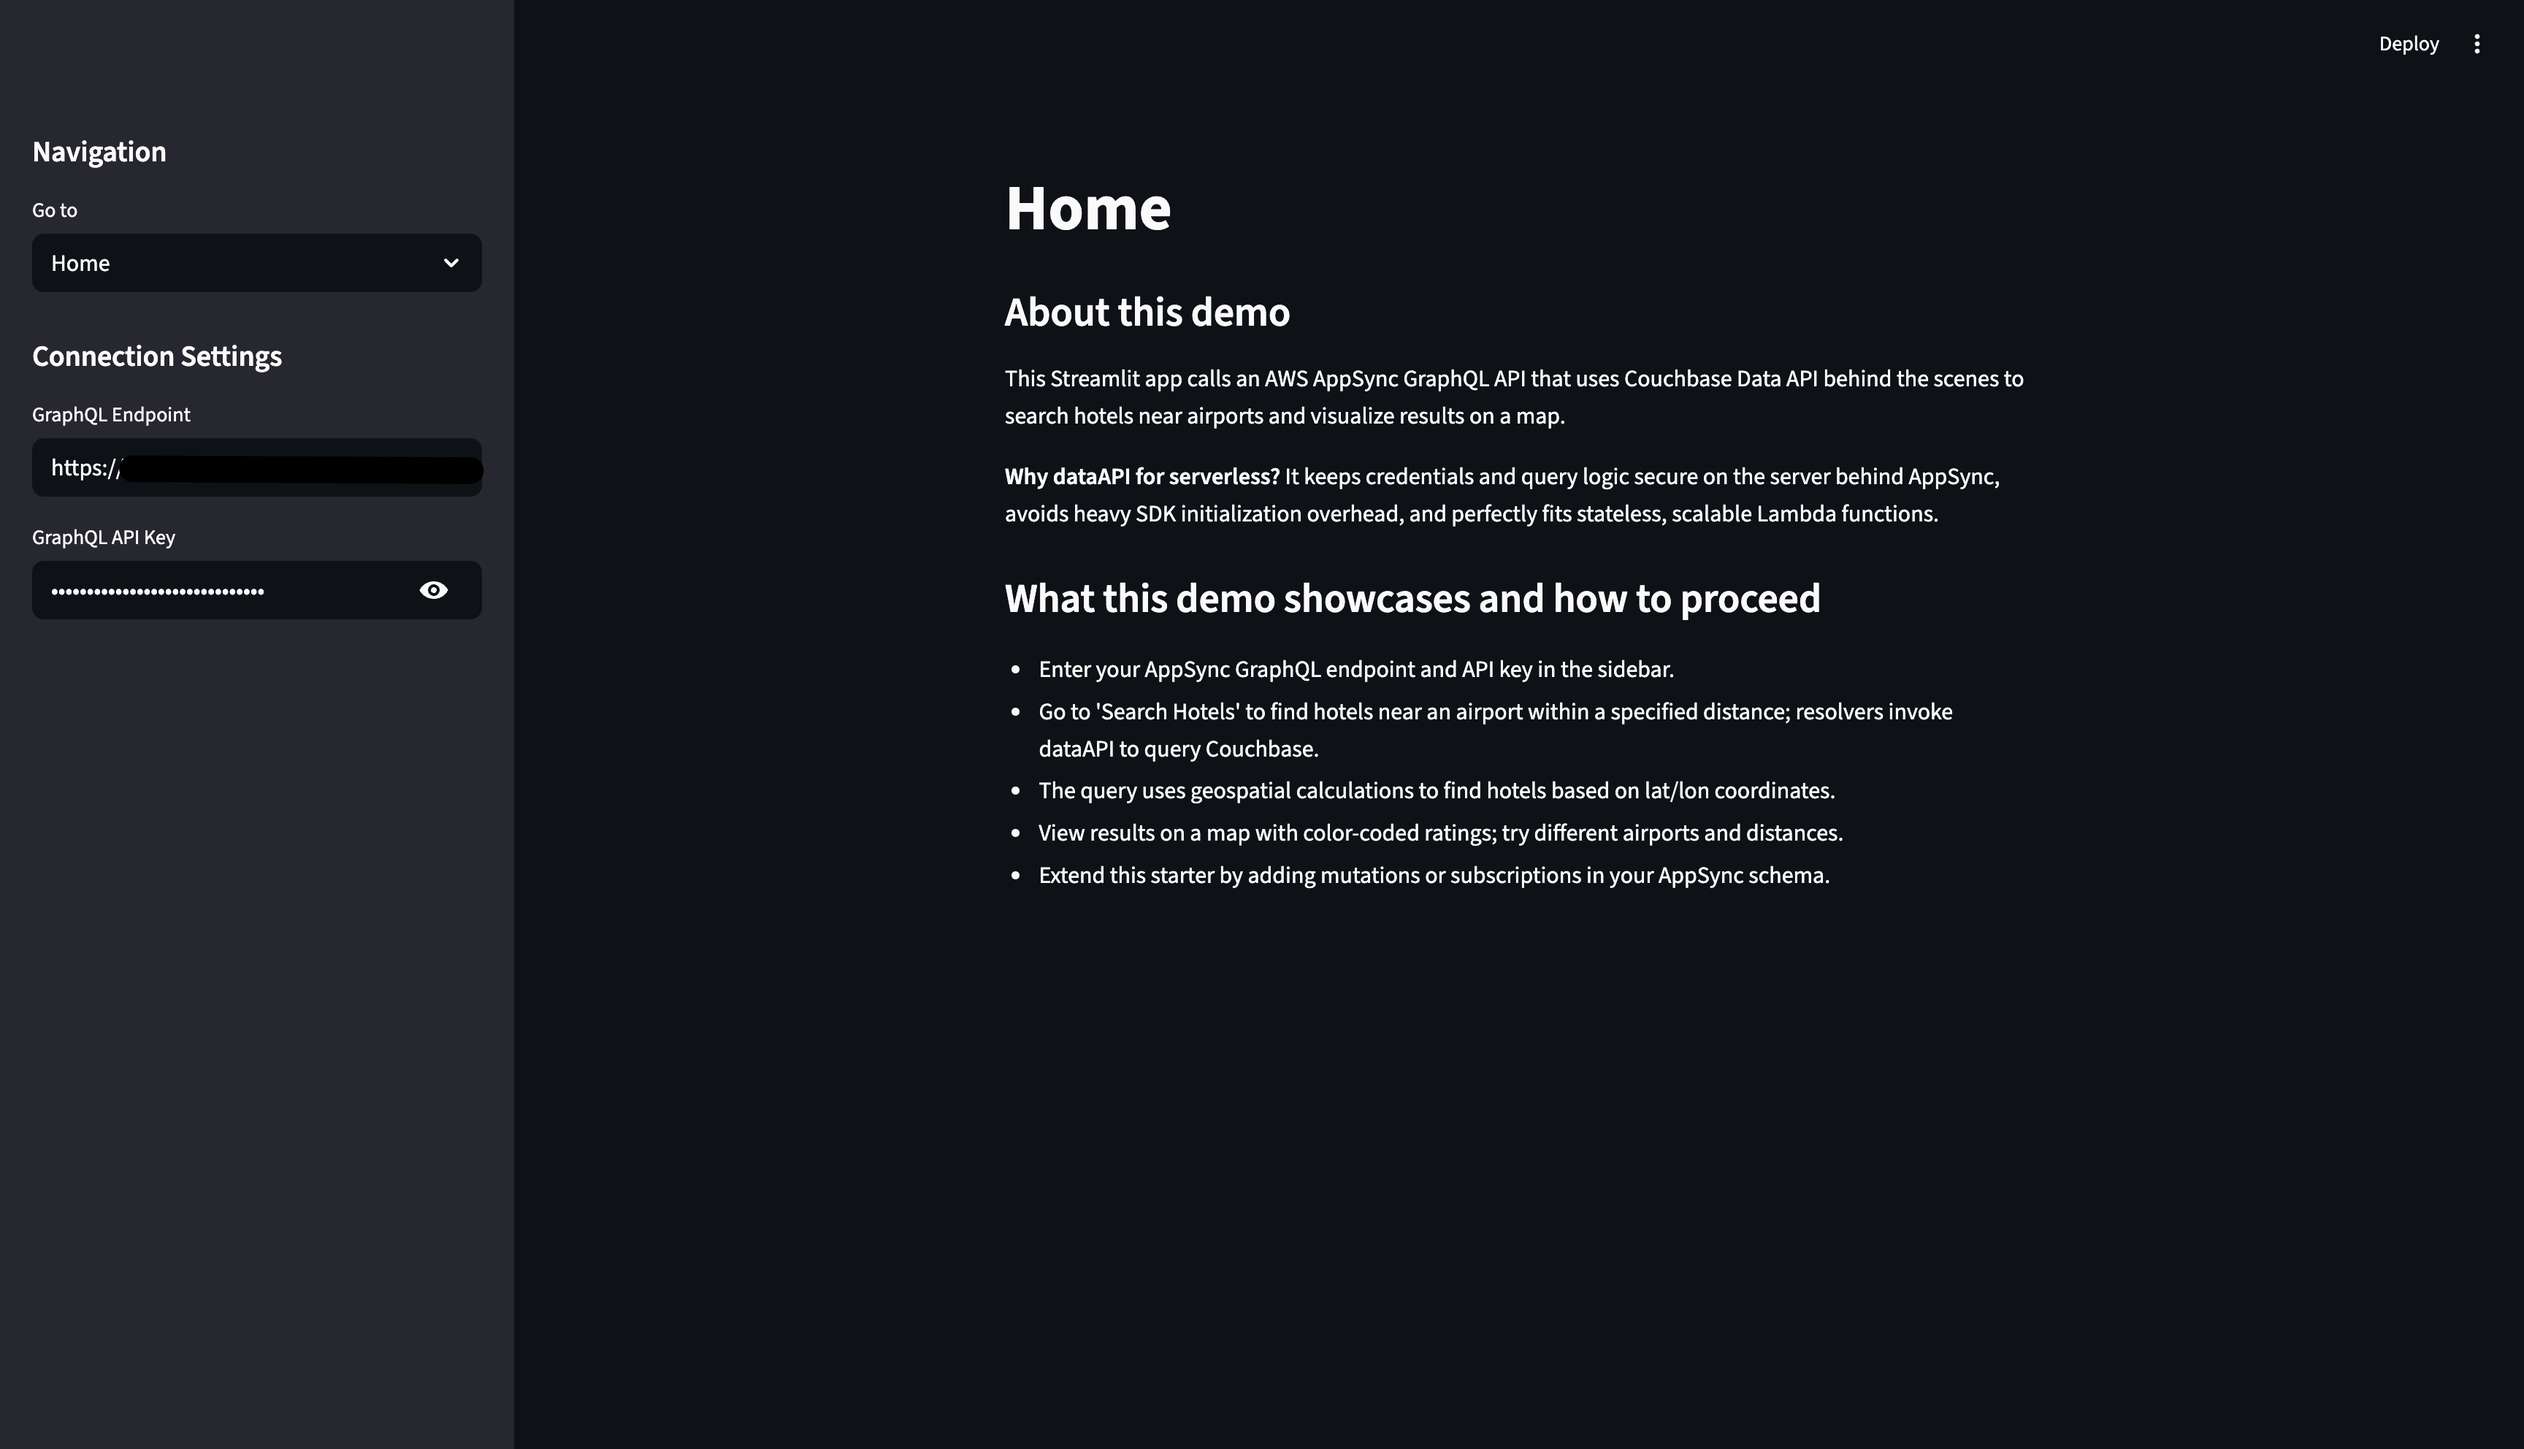
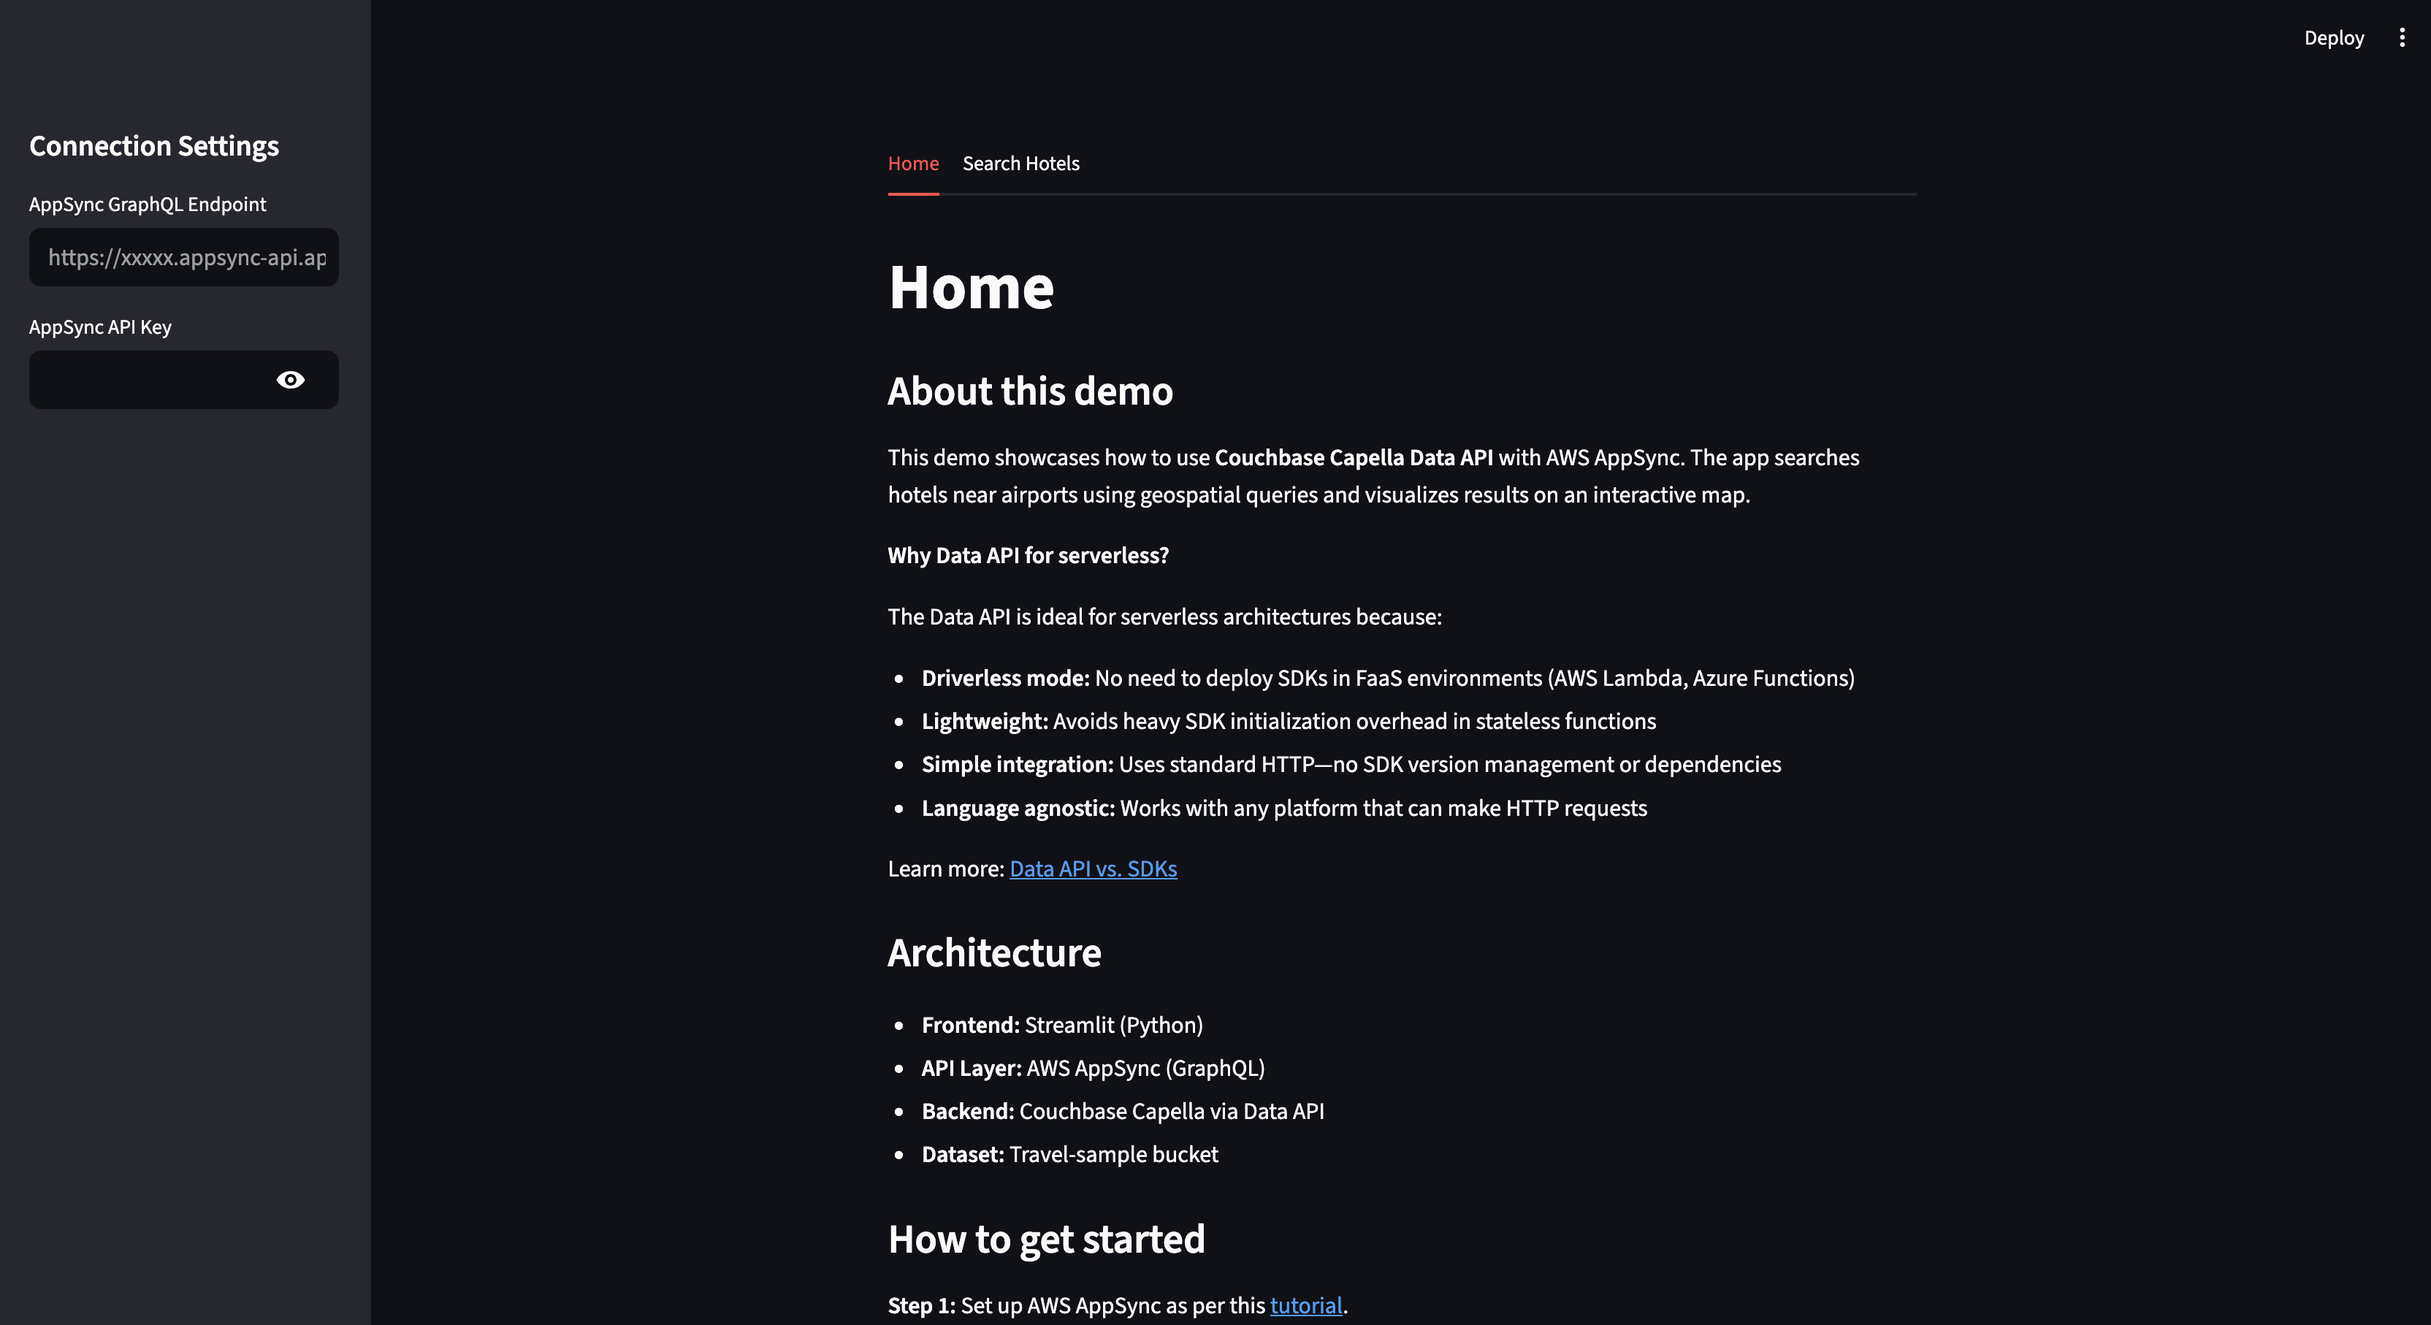
updated: tutorial prerequisites and steps for geospatial hotel search implementation
- Updated prerequisites to include specific Couchbase and AWS account requirements
- Revised tutorial steps for creating AppSync API and configuring Data API
- Updated screenshots and interactive map descriptions for better user guidance

diff --git a/tutorial/markdown/nodejs/dataApi-appsync-tutorial/tutorial.md b/tutorial/markdown/nodejs/dataApi-appsync-tutorial/tutorial.md
@@ -32,10 +32,13 @@ If you want to see the final code you can refer to it here: [Final Demo Code](ht
 This guide walks you through building a geospatial hotel search demo that finds hotels within a specified distance from airports. The application uses AWS AppSync (GraphQL) with environment variables for credential management, Couchbase Data API for executing SQL++ queries, and a Streamlit frontend for interactive map visualization — end to end, with inlined code.
 
 ### Prerequisites
-- Couchbase Capella account with the Travel Sample dataset loaded and credentials that can access it (and network access allowed).
-  - Learn/setup here: [Couchbase Data API Prerequisites](https://docs.couchbase.com/cloud/data-api-guide/data-api-start.html#prerequisites)
-- Couchbase Data API docs (enable Data API, copy endpoint)
-  - [Data API Docs](https://docs.couchbase.com/cloud/data-api-guide/data-api-start.html)
+- **[Couchbase Capella account](https://cloud.couchbase.com/sign-up)** with a [running cluster](https://docs.couchbase.com/cloud/get-started/create-account.html)
+- **[Travel-sample bucket](https://docs.couchbase.com/cloud/clusters/data-service/import-data-documents.html)** imported into your cluster
+- **[Data API enabled](https://docs.couchbase.com/cloud/data-api-guide/data-api-start.html)** in Capella (via the cluster's Connect page)
+  - **Important:** Set Allowed IP address to **"Allow access from anywhere"** for demo purposes
+  - This configuration is required for this demo to function with AWS AppSync
+  - Not recommended for production—see [documentation](https://docs.couchbase.com/cloud/data-api-guide/data-api-start.html) for secure network configurations
+- **[AWS account](https://aws.amazon.com/)** with permissions to create AppSync APIs
 
 ---
 
@@ -43,8 +46,12 @@ This guide walks you through building a geospatial hotel search demo that finds 
 
 **What is Data API?**
 Couchbase Data API provides a RESTful HTTP interface to your cluster. Instead of embedding the Couchbase SDK in your app, you make standard HTTP requests to query, insert, or update documents. This is perfect for serverless architectures (like AppSync) because:
-- No heavy SDK initialization on cold starts
-- Works from any language with HTTP support
+- **Enables driverless mode:** No need to deploy SDKs in FaaS environments (AWS Lambda, Azure Functions)
+- **Is lightweight:** Avoids heavy SDK initialization overhead in stateless functions
+- **Simplifies integration:** Uses standard HTTP—no SDK version management or dependencies
+- **Is language agnostic:** Works with any platform that can make HTTP requests
+
+Learn more: [Data API vs. SDKs](https://docs.couchbase.com/cloud/data-api-guide/data-api-sdks.html)
 
 **Steps:**
 1. In Capella, enable Data API for your project/cluster (single click in the cluster settings).
@@ -68,7 +75,9 @@ Couchbase Data API provides a RESTful HTTP interface to your cluster. Instead of
 AppSync provides a managed GraphQL layer with built-in auth, and logging. It lets your frontend speak GraphQL while your backend (Data API) speaks SQL++. The resolver bridges the two.
 
 **Steps:**
-1. Create an AppSync GraphQL API with Public API (we'll use API key auth for demo simplicity).
+1. Create an AppSync GraphQL API:
+   - Choose **"Build from scratch"** option when prompted
+   - Select **Public API** with **API key** authentication for demo simplicity
 
 #### Define the schema (paste into the schema editor)
 
@@ -162,7 +171,7 @@ AppSync can call external HTTP APIs. You configure a base URL (your Data API end
 **Steps:**
 - In AppSync, create a new HTTP data source.
 - Set the endpoint to your Couchbase Data API base URL (from step 1).
-- **Do not** configure auth here; we'll add Basic auth dynamically in the resolver using credentials from environment variables.
+- **Important:** Do NOT enable "Authorization configuration", since credentials will be passed dynamically via the resolver using AppSync environment variables.
 
 #### Screenshot
 ![AppSync Data Source](appsync-data-source.jpg)
@@ -186,7 +195,7 @@ These environment variables will be accessible in your resolvers via `ctx.env.cb
 #### Screenshot
 ![AppSync Environment Variables](appsync-env-vars.jpg)
 
-#### Add a JavaScript Unit Resolver for `Query.listHotelsInCity`
+#### Add a JavaScript Unit Resolver for `Query.listHotelsNearAirport`
 
 **What does this resolver do?**
 AppSync resolvers have two functions:
@@ -195,13 +204,13 @@ AppSync resolvers have two functions:
 
 Our resolver:
 - Reads `cb_username` and `cb_password` from AppSync environment variables (`ctx.env`).
-- Extracts `city` from the GraphQL arguments.
-- Constructs a parameterized SQL++ query: `SELECT c.* FROM hotel AS c WHERE city = $1`.
+- Extracts `airportName` and `withinKm` from the GraphQL arguments.
+- Constructs a geospatial SQL++ query to find hotels near the specified airport.
 - Builds a Data API Query Service request:
   - **Endpoint**: `/_p/query/query/service` (Data API's SQL++ query endpoint).
   - **Headers**: `Authorization: Basic <base64(username:password)>`, `Content-Type: application/json`.
-  - **Body**: `{ query_context: "default:travel-sample.inventory", statement: "SELECT ...", args: [city], timeout: "30m" }`.
-- Returns the `results` array from Data API's JSON response, which AppSync then maps to the `[Hotel]` type.
+  - **Body**: `{ query_context: "default:travel-sample.inventory", statement: "...", args: [airportName, withinKm], timeout: "30m" }`.
+- Returns both hotels and airport information in the `Output` schema format.
 
 **Why `query_context`?**
 Setting `query_context` to `default:travel-sample.inventory` lets you write `FROM hotel` instead of the fully qualified `FROM travel-sample.inventory.hotel` in your SQL++. It's a namespace shortcut.
@@ -398,10 +407,12 @@ query ListHotelsNearAirport {
 ```
 
 3. Click **Run**. You should see a JSON response with:
-   - An array of hotels within 50km of Heathrow airport
+   - An array of hotels within 50km of Les Loges airport
    - Airport information including name and location coordinates
 
-Try different airport names like "Charles de Gaulle", or "Changi" to see results from different locations.
+Try different airport names like **"San Francisco Intl"**, **"Charles de Gaulle"**, **"Luton"**, or **"London St Pancras"** to see results from different locations.
+
+**Troubleshooting:** If you encounter a "connection timed out" error, verify that your Data API has IP address access set to **"Allow access from anywhere"** in the Capella Connect page (see Prerequisites section). This is required for AWS AppSync to reach your cluster.
 
 If it works, you've successfully bridged AppSync → Data API → Couchbase with geospatial querying!
 
@@ -415,7 +426,7 @@ Now that you've set up your AWS AppSync backend with the Couchbase Data API inte
 
 Visit the live Streamlit app at **[https://couchbase-data-api-appsync-demo.streamlit.app/](https://couchbase-data-api-appsync-demo.streamlit.app/)**
 
-The app provides an interactive map-based interface where you can search for hotels near airports. Simply enter your AppSync GraphQL endpoint and API key in the sidebar (note that Couchbase credentials are securely stored as environment variables in AppSync, so you don't need to enter them). Navigate to "Search Hotels", enter an airport name like **"Les Loges"** and a distance like **100 km**, then click "Search".
+The app provides an interactive map-based interface where you can search for hotels near airports. Simply enter your **AppSync GraphQL Endpoint** and **AppSync API Key** in the sidebar (note that Couchbase credentials are securely stored as environment variables in AppSync, so you don't need to enter them). Click the **"Search Hotels"** tab, enter an airport name like **"San Francisco Intl"**, **"Les Loges"**, **"Luton"**, or **"London St Pancras"** and a distance like **100 km**, then click "Search". A loading spinner will appear while fetching results.
 
 Results display on an interactive map with the airport shown as an orange marker and hotels as color-coded dots (green for excellent ratings, red for poor). The map automatically centers on the airport location. Hover over any marker to see details like hotel names, addresses, prices, and phone numbers, or expand the "Raw response" section to see the full JSON data from AppSync.
 
@@ -423,9 +434,30 @@ Results display on an interactive map with the airport shown as an orange marker
 
 ![Streamlit map with hotels and airport](streamlit-map.jpg)
 
-**Want to explore the source code or run it locally?** The complete Streamlit frontend code is available at [https://github.com/couchbase-examples/couchbase-data_api-appsync-demo/tree/main/src/frontend](https://github.com/couchbase-examples/couchbase-data_api-appsync-demo/tree/main/src/frontend). The frontend consists of `home.py` (navigation and connection settings) and `search_hotels.py` (hotel search with map visualization using `pydeck`). It uses the `requests` library to call AppSync GraphQL with standard HTTP POST requests. Ratings are computed from review data and mapped to colors for visual feedback.
+**Want to explore the source code or run it locally?** The complete Streamlit frontend code is available at [https://github.com/couchbase-examples/couchbase-data_api-appsync-demo/tree/main/src/frontend](https://github.com/couchbase-examples/couchbase-data_api-appsync-demo/tree/main/src/frontend). The frontend consists of `home.py` (tab-based navigation and connection settings) and `search_hotels.py` (hotel search with map visualization using `pydeck`). It uses the `requests` library to call AppSync GraphQL with standard HTTP POST requests. Ratings are computed from review data and mapped to colors for visual feedback.
 
-To run locally: clone the repo, install dependencies with `pip install -r requirements.txt`, navigate to `src/frontend`, and run `streamlit run home.py`. The app will start at `http://localhost:8501`.
+To run locally:
+```bash
+# Clone the repository
+git clone https://github.com/couchbase-examples/couchbase-data_api-appsync-demo.git
+
+# Navigate to the project directory
+cd couchbase-data_api-appsync-demo
+
+# Create a virtual environment
+python3 -m venv .venv
+
+# Activate the virtual environment
+source ./.venv/bin/activate
+
+# Install required dependencies
+pip install -r requirements.txt
+
+# Run the Streamlit app
+streamlit run src/frontend/home.py
+```
+
+The app will start at `http://localhost:8501`.
 
 ---
 
